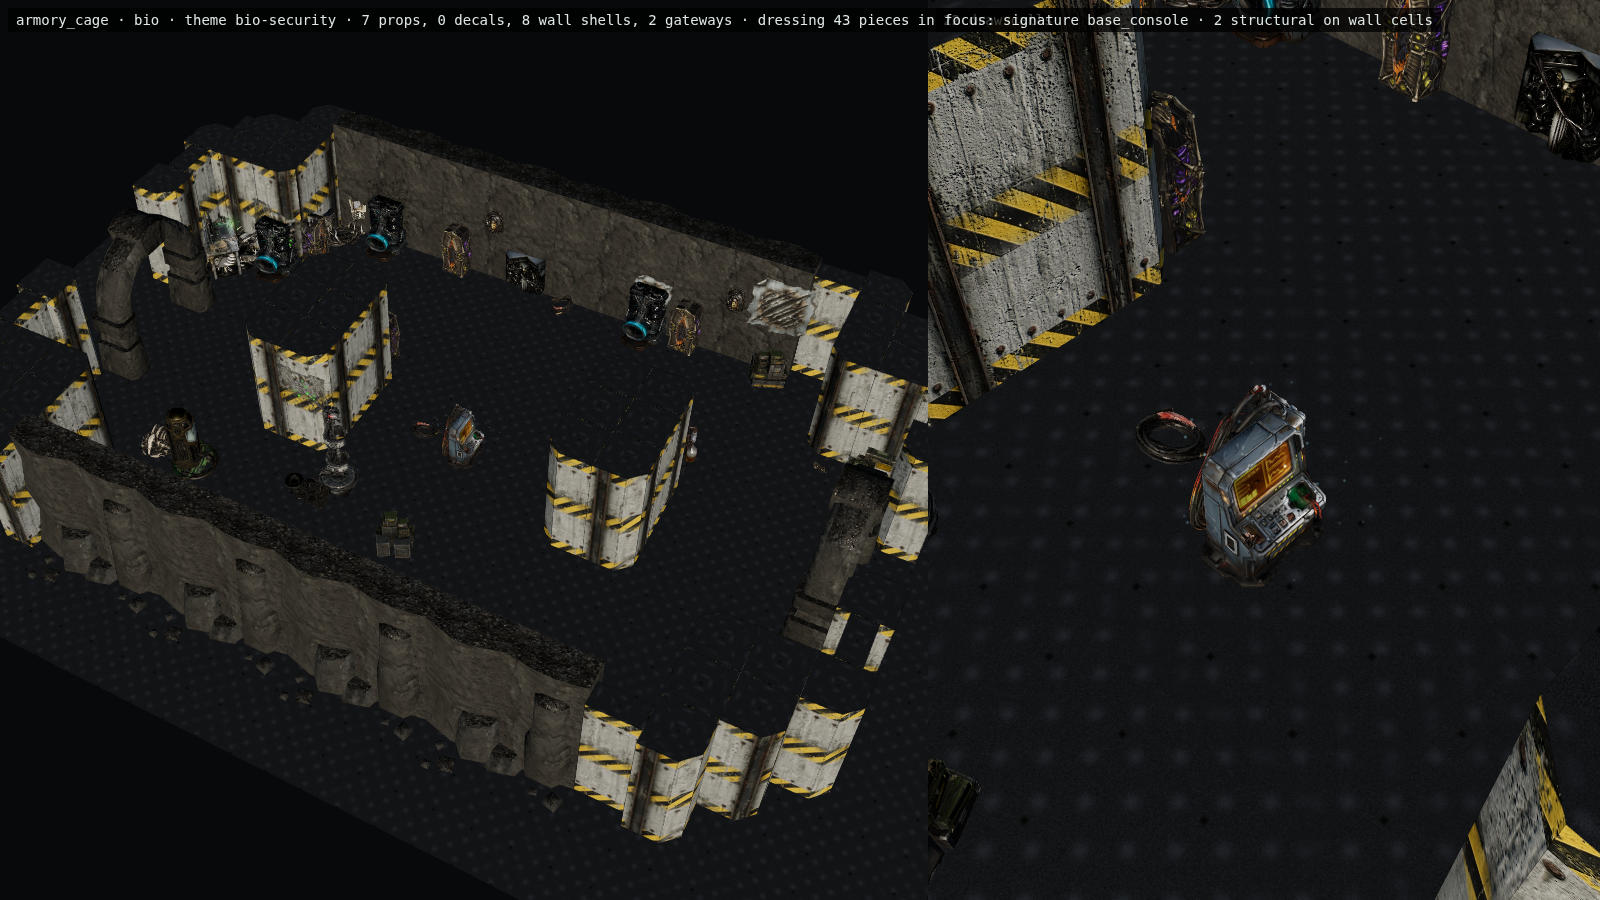
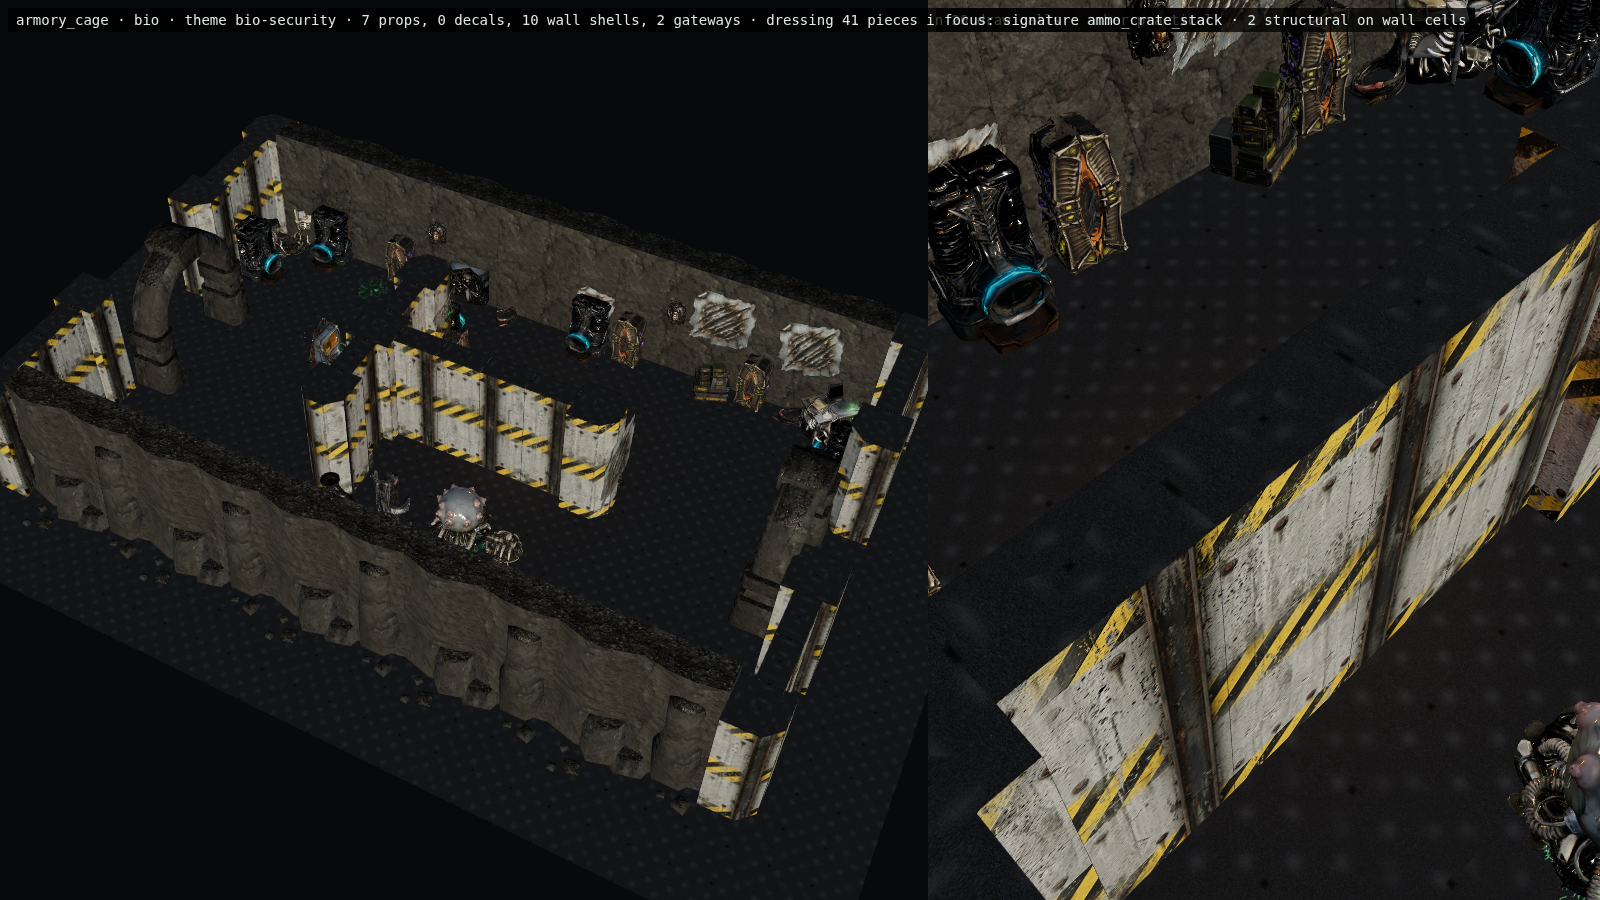
feat(levels): make armory a defended reward choice

diff --git a/src/data/roomBuilds.js b/src/data/roomBuilds.js
@@ -105,13 +105,19 @@ export const ROOM_BUILD_CATALOG = Object.freeze([
         family: 'armory',
         themeStyle: 'substation',
         partitionThickness: 0.5,
-        pattern: rectRoomPattern(17, 11, [
-            { x: 0, y: 0, w: 2, h: 2 },
-            { x: 15, y: 0, w: 2, h: 2 },
-            { x: 0, y: 9, w: 2, h: 2 },
-            { x: 15, y: 9, w: 2, h: 2 },
-            { x: 4, y: 4, w: 2, h: 3 },
-            { x: 11, y: 4, w: 2, h: 3 }
+        // P1 reward-choice proof: a single T cage interrupts the west/east
+        // lane. The north flank is short and defended; the south inspection
+        // lane is longer and uses the crossbar as continuous cover.
+        pattern: authoredRoomPattern([
+            '...............',
+            '...............',
+            '.....#.........',
+            '.....#.........',
+            '.....######....',
+            '.....#.........',
+            '.....#.........',
+            '...............',
+            '...............'
         ]),
         sockets: [
             { id: 'entry', side: 'w', width: 3, required: true },
@@ -122,20 +128,20 @@ export const ROOM_BUILD_CATALOG = Object.freeze([
         biomeEligibility: ['active', 'cryo', 'bio'],
         roles: ['reward', 'questDestination'],
         structuralAnchors: [
-            { id: 'weapon_rack_a', type: 'prop_security_locker', x: 5, y: 5 },
-            { id: 'weapon_rack_b', type: 'prop_security_locker', x: 12, y: 5 }
+            { id: 'weapon_rack_a', type: 'prop_security_locker', x: 5, y: 2 },
+            { id: 'weapon_rack_b', type: 'prop_security_locker', x: 5, y: 6 }
         ],
-        interactionAnchors: [{ id: 'armory_lock', type: 'base_console', x: 8, y: 5 }],
-        signatureAnchorId: 'armory_lock',
+        interactionAnchors: [{ id: 'armory_lock', type: 'base_console', x: 3, y: 3 }],
+        signatureAnchorId: 'ammo_crate',
         compassAnchors: { approach: 'entry', objective: 'armory_lock' },
-        coverZones: [{ x: 4, y: 4, w: 2, h: 3 }, { x: 11, y: 4, w: 2, h: 3 }],
+        coverZones: [{ x: 5, y: 2, w: 1, h: 5 }, { x: 5, y: 4, w: 6, h: 1 }],
         encounterZones: [{ id: 'armory_defenders', x: 6, y: 1, w: 5, h: 3 }],
-        rewardAnchors: [{ id: 'ammo_crate', type: 'prop_ammo_crate_stack', x: 8, y: 8 }],
+        rewardAnchors: [{ id: 'ammo_crate', type: 'prop_ammo_crate_stack', x: 8, y: 3 }],
         loreAnchors: [],
         hazardZones: [],
-        quietZones: [],
+        quietZones: [{ x: 1, y: 2, w: 4, h: 5 }],
         safeZone: false,
-        containmentBounds: { minX: 0, minY: 0, maxX: 16, maxY: 10 },
+        containmentBounds: { minX: 0, minY: 0, maxX: 14, maxY: 8 },
         presentationVariants: ['sealed', 'breached', 'looted'],
         stateVariants: ['dormant', 'questActive', 'resolved'],
         adjacency: { prefers: ['pressure_corridor'], forbids: ['reward_vault'] },

diff --git a/src/roomBuilds.test.js b/src/roomBuilds.test.js
@@ -155,6 +155,35 @@ describe('ROOM_BUILD_CATALOG', () => {
         expect(shortestPatternPath(build.pattern, approach, control, westService)).toBeLessThan(Infinity);
     });
 
+    it('turns the armory into a T-choice with a shorter defended reward flank', () => {
+        const build = ROOM_BUILD_CATALOG.find((entry) => entry.id === 'armory_cage');
+        expect(build.pattern).toEqual([
+            '...............',
+            '...............',
+            '.....#.........',
+            '.....#.........',
+            '.....######....',
+            '.....#.........',
+            '.....#.........',
+            '...............',
+            '...............'
+        ]);
+        const approach = computeApproachPoint(build);
+        const reward = { x: 8, y: 3 };
+        const north = { x: 6, y: 1 };
+        const south = { x: 6, y: 7 };
+        const northRoute = shortestPatternPath(build.pattern, approach, north)
+            + shortestPatternPath(build.pattern, north, reward);
+        const southRoute = shortestPatternPath(build.pattern, approach, south)
+            + shortestPatternPath(build.pattern, south, reward);
+        expect(approach).toEqual({ x: 2, y: 4 });
+        expect(northRoute).toBeLessThan(southRoute);
+        expect(shortestPatternPath(build.pattern, approach, { x: 14, y: 4 })).toBeLessThan(Infinity);
+        expect(build.signatureAnchorId).toBe('ammo_crate');
+        expect(build.interactionAnchors[0]).toMatchObject({ id: 'armory_lock', x: 3, y: 3 });
+        expect(build.rewardAnchors[0]).toMatchObject({ id: 'ammo_crate', x: 8, y: 3 });
+    });
+
     it.each(ROOM_BUILD_CATALOG.map((build) => [build.id, build]))('%s is internally valid', (_, build) => {
         expect(validateRoomBuild(build)).toEqual([]);
     });

diff --git a/tests/e2e/probes/p1-armory-gameplay-camera.spec.js b/tests/e2e/probes/p1-armory-gameplay-camera.spec.js
@@ -1,0 +1,19 @@
+import { test, expect } from '@playwright/test';
+
+// P1 compression proof: the reward cache, defended short flank and covered
+// long flank must remain legible from every cardinal gameplay-camera rotation.
+for (let rotation = 0; rotation < 4; rotation += 1) {
+    test(`P1 armory game camera — R${rotation}`, async ({ page }) => {
+        await page.setViewportSize({ width: 1600, height: 900 });
+        await page.goto(`/tests/e2e/fixtures/furnished-room-showroom.html?build=armory_cage&biome=active&review=gameplay&rotation=${rotation}`);
+        await page.waitForFunction(() => window.__showroom?.ready === true, null, { timeout: 90_000 });
+        const result = await page.evaluate(() => window.__showroom);
+        expect(result.reviewMode).toBe(true);
+        expect(result.rotation).toBe(rotation);
+        expect(result.cutawayCells).toBeGreaterThan(0);
+        expect(result.props + result.decals).toBeGreaterThan(0);
+        await page.screenshot({
+            path: `docs/reports/assets/furnished-rooms/p1-armory_cage-game-camera-r${rotation}.png`
+        });
+    });
+}

diff --git a/src/anchorPracticalLight.js b/src/anchorPracticalLight.js
@@ -19,7 +19,7 @@ export const ANCHOR_LIGHT_PALETTE = Object.freeze({
 // First match wins; cyan before green so a "biomech oxygen" piece reads cold.
 const PALETTE_RULES = Object.freeze([
     { palette: 'cyan', match: /oxygen|coolant|cryo|o2_|frost|icey|thermal|water_still|medical_bed|tesla_coil/ },
-    { palette: 'amber', match: /lectern|votive|shrine|reliquary|saint|liturgical|candle|barrel_heater|flood_lamp|pheromone_censer|scent_distiller|warmth_hearth|checkpoint_post|wayfinding_totem|seismic_drill|devotion_tree|meat_smoking_rack|pipe_organ_heat_exchanger/ },
+    { palette: 'amber', match: /lectern|votive|shrine|reliquary|saint|liturgical|candle|barrel_heater|flood_lamp|pheromone_censer|scent_distiller|warmth_hearth|checkpoint_post|wayfinding_totem|seismic_drill|devotion_tree|meat_smoking_rack|pipe_organ_heat_exchanger|ammo_crate/ },
     { palette: 'green', match: /biomech|spore|fungal|hive|flesh|umbilical|alien|incubator|mycelium/ }
 ]);
 

diff --git a/src/anchorPracticalLight.test.js b/src/anchorPracticalLight.test.js
@@ -13,6 +13,7 @@ describe('anchor practical light (lived-in world M4)', () => {
         expect(anchorPaletteFor('prop_medical_bed')).toBe('cyan');
         expect(anchorPaletteFor('prop_tesla_coil_node')).toBe('cyan');
         expect(anchorPaletteFor('prop_pipe_organ_heat_exchanger')).toBe('amber');
+        expect(anchorPaletteFor('prop_ammo_crate_stack')).toBe('amber');
         expect(anchorPaletteFor('life_barrel_heater')).toBe('amber');
         expect(anchorPaletteFor('life_pheromone_censer')).toBe('amber');
         expect(anchorPaletteFor('prop_bunker_supplies')).toBeNull();

diff --git a/docs/planning/n64-architectural-level-design-overhaul-2026-10-10.md b/docs/planning/n64-architectural-level-design-overhaul-2026-10-10.md
@@ -663,7 +663,20 @@ live at `docs/reports/assets/furnished-rooms/p1-quarantine_airlock-game-camera-r
 Capability correction: this blueprint is not a live progression gate today. Exterior doors use
 distance hysteresis but are not mutually interlocked, and authored hazard zones are metadata rather
 than damage volumes. The fixed route is approved; a purge-cycle FSM, door binding, and real
-hazard-disable state remain separate implementation work. Next P1 candidate: `armory_cage`.
+hazard-disable state remain separate implementation work.
+
+The fourth P1 proof is `armory_cage`. A thin T-shaped cage converts the former equal block islands
+into a readable reward choice: the north flank is short and exposed beneath the encounter pocket;
+the south flank is longer and covered. The preserved `armory_lock` console stays on the west
+approach as the progression/compass objective, while the existing `ammo_crate` interaction beyond
+the crossbar becomes the authored signature and receives an amber task light. Exact-pattern and
+route tests prove both flanks, the shorter north route, and the east exit. Four gameplay-camera and
+production-cutaway captures live at
+`docs/reports/assets/furnished-rooms/p1-armory_cage-game-camera-r*.png`.
+
+The locker does not physically open yet: panel animation, lock-state binding, contents reveal, and
+coordinated light/audio feedback remain presentation work. The geometry stays fixed when those
+states land. Next P1 candidate: `field_fabricator`.
 
 ### 9.6.2 Authored-geometry persistence gate
 
@@ -1010,6 +1023,10 @@ chunk mounts.
 - 2026-10-11: Lane A rebuilt the quarantine airlock as a staggered double-sluice with dirty/clean
   staging, a side-pocket amber override, and off-axis emergency O₂. Four rotation captures and a
   two-door stamp proof pass. Docs now state honestly that purge damage/interlock are not yet live.
+- 2026-10-11: Lane A rebuilt the armory as a compact T-cage with a short exposed flank and a long
+  covered flank. The preserved lock console remains the progression objective, while the ammo cache
+  owns amber signature light and reward hierarchy. Exact geometry, route, exit, and four-rotation
+  camera proofs pass; animated locker state remains future presentation work.
 - 2026-10-10: Round 2 done (`1b0fce7c`): chasm landmarks plus tactical-map glyphs. Criteria 1,
   3, 4 and 5 met; criterion 2 not met as written, with the reason and the map-based answer in
   §9.10.

diff --git a/docs/planning/world-design-doctrine-n64-lessons-2026-10-10.md b/docs/planning/world-design-doctrine-n64-lessons-2026-10-10.md
@@ -491,8 +491,21 @@ doors already open and close by proximity, but they have no mutual-exclusion FSM
 generic interaction reports a bypass, while authored `hazardZones` have no live damage consumer.
 Do not describe the plume as damaging or mechanically disabled until that state contract lands.
 
-The next P1 candidate is `armory_cage`: a reward-focused T-choice after the three-room
-O₂ → stasis → quarantine sequence.
+`armory_cage` is the fourth P1 proof and the reward-focused answer to the three-room
+O₂ → stasis → quarantine sequence. A thin T-shaped cage divides the room into two unequal
+flanks: the north route is shorter but exposed to the encounter pocket, while the south route is
+longer and stays behind cover. The progression-stable `armory_lock` console sits on the west
+approach as the compass objective; it no longer steals the focal hierarchy from the prize. The
+existing `ammo_crate` interaction is visible beyond the cage and owns the amber signature
+practical. Weapon racks reinforce both ends of the barrier without occupying either route. Tests
+pin the exact wall pattern, prove both flanks and the east exit reachable, and prove the north
+route shorter. All four rotation/cutaway captures live at
+`docs/reports/assets/furnished-rooms/p1-armory_cage-game-camera-r*.png`.
+
+This is a fixed architectural reward choice, not yet an opening locker simulation. The ammo crate
+retains its existing generic interaction; opening panels, lock-state animation, contents reveal,
+and synchronized light/audio feedback remain presentation work and must not alter the two routes.
+The next P1 candidate is `field_fabricator`.
 
 ### Authored-geometry save policy
 
